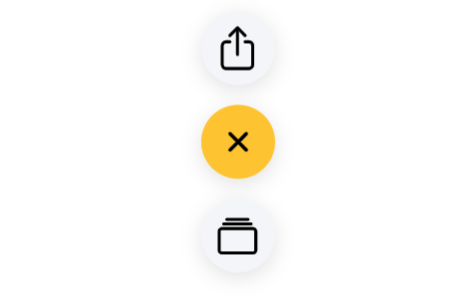
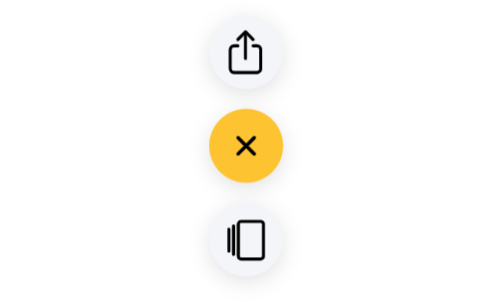
fix tutorial and add players page tutorial

diff --git a/MobileCordova/src/app/tutorial/tutorial.page.ts b/MobileCordova/src/app/tutorial/tutorial.page.ts
@@ -81,7 +81,7 @@ export class TutorialPage implements OnInit {
               {
                 title: 'Bottone "Crea"',
                 subtitle: 'Consente di creare una partita con le impostazioni scelte.',
-                icon: 'arrow-forward-outline'
+                icon: 'arrow-forward-circle-outline'
               }
             ]
           }
@@ -100,25 +100,35 @@ export class TutorialPage implements OnInit {
                 img: './assets/tutorial/game-header.png'
               },
               {
-                title: 'Bottone "Uscita"',
+                title: 'Bottone di uscita',
                 subtitle: 'Consente all\'utente di uscire dal gioco. Comparirà un messaggio di conferma prima di lasciare definitivamente la sessione.',
                 icon: 'arrow-back-circle-outline'
               },
               {
-                title: 'Bottone "Giocatori"',
+                title: 'Stato della partita',
+                subtitle: 'Indica con un testo sintetico lo stato della partita o il giocatore che deve fare la sua mossa.',
+                icon: 'alert-circle-outline'
+              },
+              {
+                title: 'Bottone lista giocatori',
                 subtitle: 'Consente di entrare all\'interno della pagina di riepilogo.',
                 icon: 'people-outline'
               },
               {
-                title: 'Indicatore "Numero giocatori"',
-                subtitle: 'Posto accanto al bottone "Giocatori", indica la quantità di giocatori online.',
+                title: 'Indicatore numero giocatori"',
+                subtitle: 'Posto accanto al bottone lista giocatori, indica la quantità di giocatori online.',
                 icon: 'alert-circle-outline'
               },
               {
-                title: 'Indicatore "Monete"',
-                subtitle: 'Indica la quantità di monete rimaste.',
+                title: 'Indicatore monete',
+                subtitle: 'Indica la quantità di monete disponibili.',
                 icon: 'server-outline'
-              },
+              }
+            ]
+          },
+          {
+            title: 'Carta',
+            items: [
               {
                 title: 'Durante il gioco nella parte centrale si trova la vostra carta.',
                 img: './assets/tutorial/cards.png'
@@ -126,10 +136,19 @@ export class TutorialPage implements OnInit {
             ]
           },
           {
+            title: 'Notifiche',
+            items: [
+              {
+                title: 'Durante la partita, e non solo, compariranno delle notifiche in basso per comunicazioni generali o per avvisare il giocatore di operazioni effettuate dal mazziere o da altri partecipanti.',
+                img: './assets/tutorial/notifications.png'
+              }
+            ]
+          },
+          {
             title: 'Mosse giocatore',
             items: [
               {
-                title: 'Questa sezione permette al giocatore di eseguire le mosse in partita.',
+                title: 'Questa sezione permette al giocatore di eseguire le mosse in partita. E\' necessario cliccare il bottone della mossa per effettuarla. Se questo è trasparente significa che è in quel momento non è possibile effettuare quella mossa.',
                 img: './assets/tutorial/player-moves.png'
               },
               {
@@ -149,10 +168,10 @@ export class TutorialPage implements OnInit {
             ]
           },
           {
-            title: 'Mosse Cartante fuori dal gioco',
+            title: 'Mosse mazziere fuori dal gioco',
             items: [
               {
-                title: 'Questa sezione permette al cartante di eseguire operazioni preliminari.',
+                title: 'Questa sezione permette al mazziere di eseguire operazioni preliminari. E\' necessario cliccare il bottone della mossa per effettuarla. Se questo è trasparente significa che in quel momento non è possibile effettuare quella mossa.',
                 img: './assets/tutorial/admin-moves-start.png'
               },
               {
@@ -168,10 +187,10 @@ export class TutorialPage implements OnInit {
             ]
           },
           {
-            title: 'Mosse Cartante durante il gioco',
+            title: 'Mosse mazziere durante il gioco',
             items: [
               {
-                title: 'Questa sezione permette al cartante di eseguire operazioni e mosse in partita.',
+                title: 'Questa sezione permette al mazziere di eseguire operazioni e mosse in partita.',
                 img: './assets/tutorial/admin-moves-game.png'
               },
               {
@@ -193,6 +212,88 @@ export class TutorialPage implements OnInit {
                 title: 'Bottone "Cambio"',
                 subtitle: 'Consente di effettuare la mossa "Cambio".',
                 icon: 'repeat-outline'
+              }
+            ]
+          }
+        ]
+      },
+      {
+        type: TutorialTypeEnum.PlayersPage,
+        title: 'Pagina di riepilogo',
+        subtitle: 'Qui saranno elencate e spiegate le operazioni che si possono fare all\'interno della pagina di riepilogo.',
+        sections: [
+          {
+            title: 'Lista giocatori',
+            items: [
+              {
+                title: 'In questa sezione si possono vedere i giocatori connessi, il loro stato e le loro carte in tempo reale. La riga del giocatore che deve fare la sua mossa è evidenziato con il colore rosa.',
+                img: './assets/tutorial/players-list.png'
+              },
+              {
+                title: 'Sezione nickname',
+                subtitle: 'Contiene il nome del giocatore nella lista. Nel caso sia il tuo, il testo è in grassetto.',
+                icon: 'person-outline'
+              },
+              {
+                title: 'Sezione carte',
+                subtitle: 'Contiene la carta del giocatore, qualora essa sia visibile. Nel caso di carta pescata, nella riga del mazziere vi è anche la carta pescata.',
+                icon: 'tablet-portrait-outline'
+              },
+              {
+                title: 'Indicatore monete',
+                subtitle: 'Indica la quantità di monete disponibili del giocatore.',
+                icon: 'server-outline'
+              },
+              {
+                title: 'Indicatore mazziere',
+                subtitle: 'Indica che il giocatore è il mazziere del giro in corso.',
+                icon: 'albums-outline',
+                rotateIcon: true
+              }
+            ]
+          },
+          {
+            title: 'Condivisione',
+            items: [
+              {
+                title: 'In questa sezione vi è la possibilità di avere e condividere le informazioni della partita.',
+                img: './assets/tutorial/players-sharing.png'
+              },
+              {
+                title: 'Link di invito amici',
+                subtitle: 'Consente all\'utente di generare un link da inviare agli amici per consentire loro di accedere senza la fatica di scrivere il codice della partita manualmente.',
+                icon: 'link-outline'
+              },
+              {
+                title: 'Codice partita',
+                subtitle: 'E\' il codice univoco della partita che identifica univocamente il gioco con le persone presenti.',
+                icon: 'alert-circle-outline'
+              }
+            ]
+          },
+          {
+            title: 'Azioni giocatore',
+            items: [
+              {
+                title: 'Fuori dal gioco è possibile cambiare il proprio stato (spettatore/giocatore).',
+                img: './assets/tutorial/players-actions.png'
+              },
+              {
+                title: 'E\' anche possibile cambiare la quantità delle proprie monete disponibili.',
+                img: './assets/tutorial/players-balance-update.png'
+              }
+            ]
+          },
+          {
+            title: 'Azioni mazziere',
+            items: [
+              {
+                title: 'Fuori dal gioco è possibile cambiare il proprio stato (spettatore/giocatore) ma anche quello degli altri giocatori. Può inoltre essere rimosso un membro dal gruppo.',
+                img: './assets/tutorial/players-admin-actions.png'
+              },
+              {
+                title: 'E\' anche possibile cambiare la quantità delle proprie monete disponibili ma anche quella degli altri giocatori.',
+                img: './assets/tutorial/players-balance-update.png'
               }
             ]
           }

diff --git a/MobileCordova/src/app/players/players.page.html b/MobileCordova/src/app/players/players.page.html
@@ -29,7 +29,7 @@
             <img src="./assets/cardSets/{{cardSet}}/{{ground[0]}}.png" />
           </div>
         </div>
-        <ion-icon *ngIf="player.isAdmin" name="albums-outline" class="rotate90"></ion-icon>
+        <ion-icon *ngIf="player.isAdmin" name="albums-outline" class="rotate-right"></ion-icon>
         <ion-chip outline *ngIf="moneyMode" (click)="currentPlayer.isAdmin && changeBalance(player)">
           <ion-icon name="server" color="warning"></ion-icon>
           <ion-label>{{ player.balance }}</ion-label>
@@ -51,7 +51,7 @@
             <img src="./assets/cardSets/{{cardSet}}/{{player.cards[0]}}.png" />
           </div>
         </div>
-        <ion-icon *ngIf="player.isAdmin" name="albums-outline" class="rotate90"></ion-icon>
+        <ion-icon *ngIf="player.isAdmin" name="albums-outline" class="rotate-right"></ion-icon>
         <ion-chip outline *ngIf="moneyMode" (click)="currentPlayer.isAdmin && !status && changeBalance(player)">
           <ion-icon name="server" color="warning"></ion-icon>
           <ion-label>{{ player.balance }}</ion-label>

diff --git a/MobileCordova/src/app/game/game.page.html b/MobileCordova/src/app/game/game.page.html
@@ -41,7 +41,7 @@
     <ng-container *ngFor="let move of currentPlayer.moves">
       <ion-fab-list *ngIf="move.status == state.status" [side]="move.side">
         <ion-fab-button class="fab" (click)="sendMove(move)" [ngClass]="{'disabled': move.disabled}" [disabled]="move.disabled">
-          <ion-icon [name]="move.icon"></ion-icon>
+          <ion-icon [name]="move.icon" [ngClass]="{'rotate-right': move.rotateIcon}"></ion-icon>
         </ion-fab-button>
       </ion-fab-list>
     </ng-container>

diff --git a/MobileCordova/src/app/tutorial/tutorial.page.html b/MobileCordova/src/app/tutorial/tutorial.page.html
@@ -26,7 +26,7 @@
         <ng-container *ngFor="let item of section.items">
           <ion-item *ngIf="item.icon && !item.img">
             <ion-avatar slot="start">
-              <ion-icon class="item-icon" [name]="item.icon"></ion-icon>
+              <ion-icon class="item-icon" [name]="item.icon" [ngClass]="{'rotate-right': item.rotateIcon}"></ion-icon>
             </ion-avatar>
             <ion-label>
               <h2>{{ item.title }}</h2>

diff --git a/MobileCordova/src/global.scss b/MobileCordova/src/global.scss
@@ -24,3 +24,11 @@
 @import "~@ionic/angular/css/text-alignment.css";
 @import "~@ionic/angular/css/text-transformation.css";
 @import "~@ionic/angular/css/flex-utils.css";
+
+.rotate-right {
+    -moz-transform: rotate(270deg);
+    -webkit-transform: rotate(270deg);
+    -o-transform: rotate(270deg);
+    -ms-transform: rotate(270deg);
+    transform: rotate(270deg);
+}

diff --git a/MobileCordova/src/app/players/players.page.scss b/MobileCordova/src/app/players/players.page.scss
@@ -58,14 +58,6 @@
     }
 }
 
-.rotate90 {
-    -moz-transform: rotate(270deg);
-    -webkit-transform: rotate(270deg);
-    -o-transform: rotate(270deg);
-    -ms-transform: rotate(270deg);
-    transform: rotate(270deg);
-}
-
 .myself {
     font-weight: bold;
 }

diff --git a/MobileCordova/src/app/models/tutorial.model.ts b/MobileCordova/src/app/models/tutorial.model.ts
@@ -8,6 +8,7 @@ export class TutorialItemModel {
   title: string;
   subtitle?: string;
   icon?: string;
+  rotateIcon?: boolean;
   img?: string;
 }
 
